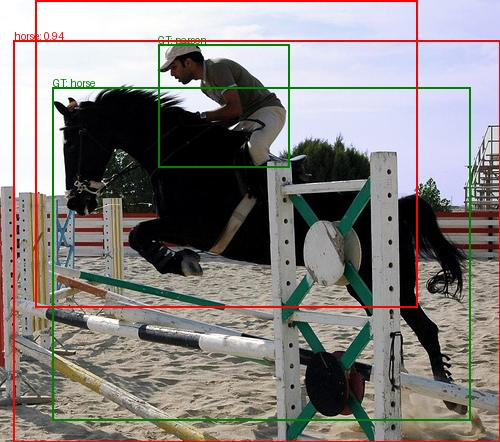
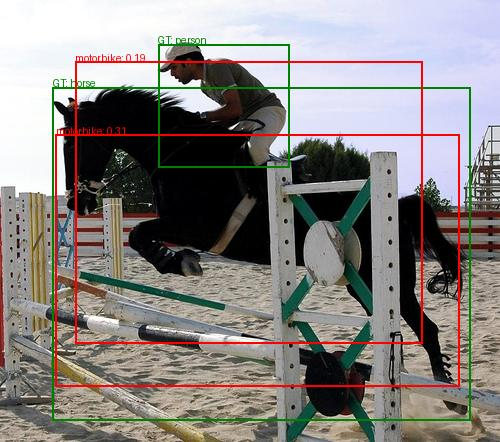
update inference

Changed region(s): [[0.0, 0.0, 1.0, 1.0]]

diff --git a/yolo/simple_inference.py b/yolo/simple_inference.py
@@ -42,6 +42,12 @@ def parse_args():
         default="./VOCdevkit/VOC2012",
         help="Path to VOC dataset directory",
     )
+    parser.add_argument(
+        "--conf-threshold",
+        type=float,
+        default=0.2,
+        help="Confidence threshold for filtering predictions",
+    )
     return parser.parse_args()
 
 
@@ -63,7 +69,7 @@ def preprocess_frame(frame, target_size=448):
     return mx.array(batched)
 
 
-def decode_predictions(predictions, model, conf_threshold=0.1):
+def decode_predictions(predictions, model):
     """Decode raw predictions to bounding boxes and class predictions."""
     print("\nDecoding predictions:")
     print(f"Raw predictions shape: {predictions.shape}")
@@ -430,7 +436,6 @@ def main():
 
     last_inference_time = 0
     inference_interval = args.interval
-    last_predictions = None
     show_activations = False
 
     print("Starting inference. Press 'q' to quit, TAB to toggle activation view")
@@ -448,10 +453,11 @@ def main():
                 try:
                     input_tensor = preprocess_frame(frame)
                     predictions = model(input_tensor)
-                    last_predictions = predictions
 
                     # Process predictions
-                    boxes, scores, classes = process_predictions(predictions[0], model)
+                    boxes, scores, classes = process_predictions(
+                        predictions[0], model, conf_threshold=args.conf_threshold
+                    )
 
                     # Convert frame to PIL Image for drawing
                     pil_frame = Image.fromarray(cv2.cvtColor(frame, cv2.COLOR_BGR2RGB))
@@ -497,80 +503,9 @@ def main():
         cv2.destroyAllWindows()
 
 
-def filter_boxes(boxes_np, confidences_np=None, conf_threshold=0.25):
-    """Filter boxes using numpy operations"""
-    min_size = 0.05  # Minimum 5% of image size
-    max_size = 0.9  # Maximum 90% of image size
-    max_boxes = 5  # Maximum number of boxes to show
-
-    print("\nFiltering boxes:")
-    print(f"Input boxes shape: {boxes_np}")
-    if confidences_np is not None:
-        print(f"Input confidences shape: {confidences_np}")
-
-    # Convert MLX arrays to numpy if needed
-    if not isinstance(boxes_np, np.ndarray):
-        boxes_np = np.array(boxes_np)
-    if confidences_np is not None and not isinstance(confidences_np, np.ndarray):
-        confidences_np = np.array(confidences_np)
-
-    # Calculate widths and heights
-    widths = boxes_np[:, 2] - boxes_np[:, 0]
-    heights = boxes_np[:, 3] - boxes_np[:, 1]
-    aspect_ratios = np.maximum(widths, heights) / (np.minimum(widths, heights) + 1e-6)
-
-    print("\nBox statistics:")
-    print(f"Width range: [{widths.min():.3f}, {widths.max():.3f}]")
-    print(f"Height range: [{heights.min():.3f}, {heights.max():.3f}]")
-    print(f"Aspect ratio range: [{aspect_ratios.min():.3f}, {aspect_ratios.max():.3f}]")
-
-    # Create mask for valid boxes
-    valid_mask = (
-        (widths > min_size)
-        & (widths < max_size)
-        & (heights > min_size)
-        & (heights < max_size)
-        & (aspect_ratios < 3)
-    )
-
-    if confidences_np is not None:
-        valid_mask = valid_mask & (confidences_np > conf_threshold)
-
-    # Get valid boxes and confidences
-    valid_boxes = boxes_np[valid_mask]
-    valid_confidences = (
-        confidences_np[valid_mask] if confidences_np is not None else None
-    )
-
-    print(f"\nValid boxes after filtering: {len(valid_boxes)}")
-
-    if len(valid_boxes) > 0:
-        # Sort by confidence if available, otherwise by area
-        if valid_confidences is not None:
-            sorted_indices = np.argsort(valid_confidences)[::-1][:max_boxes]
-        else:
-            areas = (valid_boxes[:, 2] - valid_boxes[:, 0]) * (
-                valid_boxes[:, 3] - valid_boxes[:, 1]
-            )
-            sorted_indices = np.argsort(areas)[::-1][:max_boxes]
-
-        valid_boxes = valid_boxes[sorted_indices]
-        valid_confidences = (
-            valid_confidences[sorted_indices] if valid_confidences is not None else None
-        )
-
-        print("\nFinal boxes:")
-        for i, (box, conf) in enumerate(zip(valid_boxes, valid_confidences)):
-            print(f"Box {i}: {box}, confidence: {conf:.3f}")
-
-    return valid_boxes, valid_confidences
-
-
-def process_predictions(predictions, model, conf_threshold=0.15, nms_threshold=0.3):
+def process_predictions(predictions, model, conf_threshold=0.15):
     """Process raw predictions into final detections."""
-    boxes, scores, classes = decode_predictions(
-        predictions, model, conf_threshold=conf_threshold
-    )
+    boxes, scores, classes = decode_predictions(predictions, model)
 
     # Convert to numpy for filtering
     boxes_np = np.array([b.tolist() for b in boxes])
@@ -589,29 +524,12 @@ def process_predictions(predictions, model, conf_threshold=0.15, nms_threshold=0
     filtered_scores = scores_np[conf_mask]
     filtered_classes = classes_np[conf_mask]
 
-    print(f"\nAfter confidence filtering:")
+    print("After confidence filtering:")
     print(f"Number of boxes above threshold: {len(filtered_scores)}")
     if len(filtered_scores) > 0:
         print(
             f"Remaining confidence range: [{filtered_scores.min():.3f}, {filtered_scores.max():.3f}]"
         )
-
-    # Additional size-based filtering
-    if len(filtered_scores) > 0 and False:
-        # Calculate box dimensions
-        widths = filtered_boxes[:, 2] - filtered_boxes[:, 0]
-        heights = filtered_boxes[:, 3] - filtered_boxes[:, 1]
-
-        # Filter out unreasonably small or large boxes
-        size_mask = (
-            (widths > 0.03) & (widths < 0.95) & (heights > 0.03) & (heights < 0.95)
-        )
-        filtered_boxes = filtered_boxes[size_mask]
-        filtered_scores = filtered_scores[size_mask]
-        filtered_classes = filtered_classes[size_mask]
-
-        print(f"\nAfter size filtering:")
-        print(f"Final number of boxes: {len(filtered_scores)}")
 
     if len(filtered_scores) == 0:
         return mx.array([]), mx.array([]), mx.array([])
